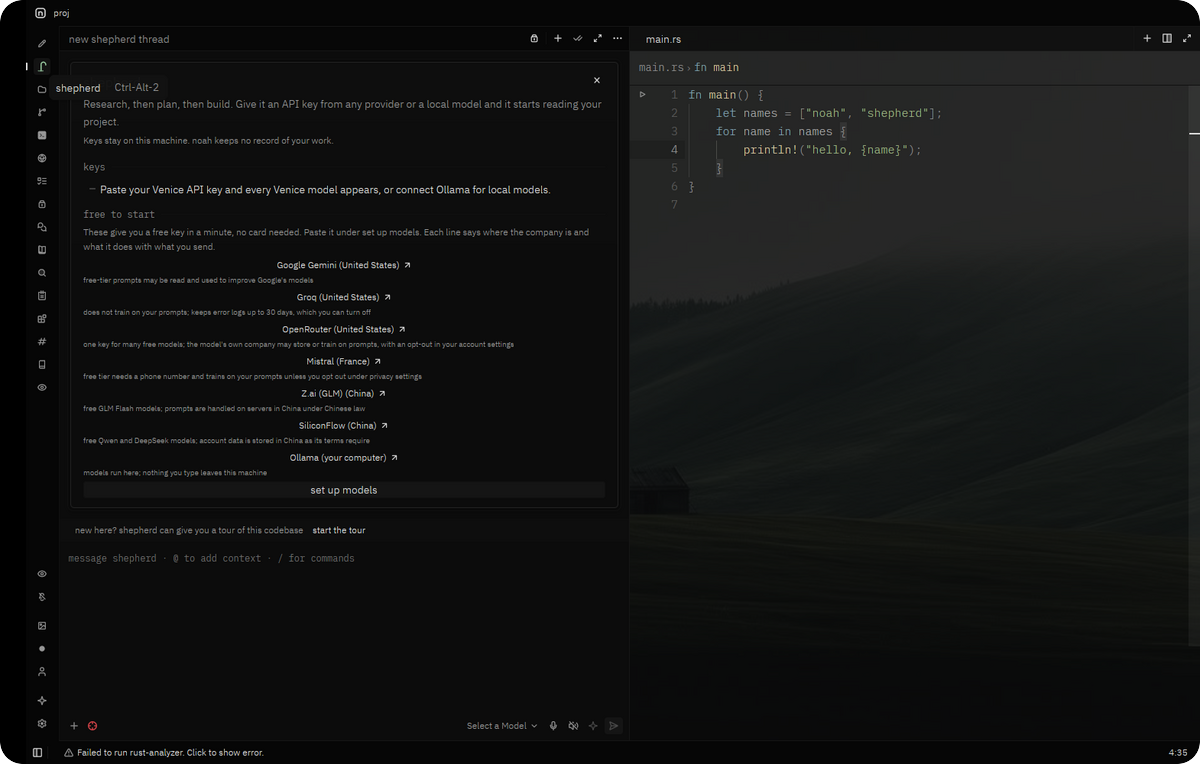
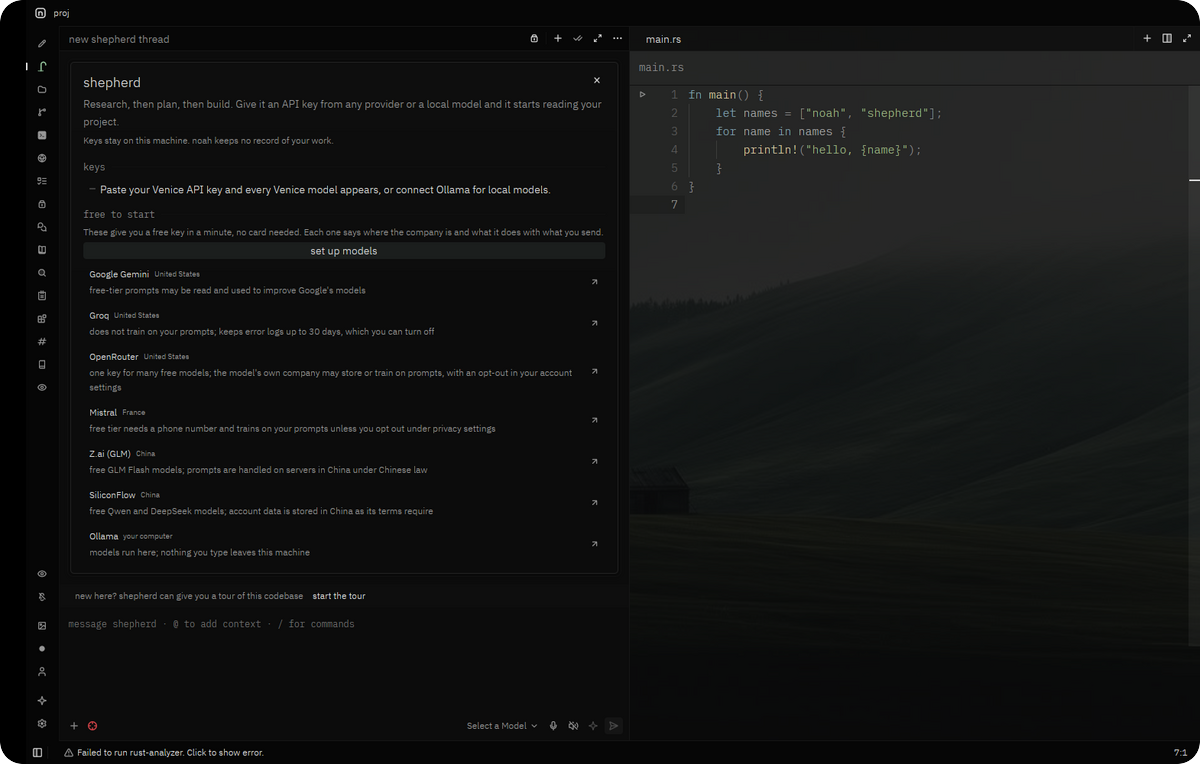
Animate panels in and rebuild shepherd's setup card
- Docked panels fade in and slide 8px from the edge they live on
  (160ms, ease-out), replaying when the panel changes.
- The setup card puts "set up models" first and shows each free
  provider as one left-aligned row: name, country, what it does with
  your data at a readable size, and the whole row opens the sign-up.
- README shepherd screenshot updated.

Claude-Session: https://claude.ai/code/session_01EhGequBV2f2cWf42hYUEcy

diff --git a/crates/ai_onboarding/src/agent_api_keys_onboarding.rs b/crates/ai_onboarding/src/agent_api_keys_onboarding.rs
@@ -1,6 +1,6 @@
 use gpui::{Action, IntoElement, ParentElement, RenderOnce};
 use language_model::{IconOrSvg, LanguageModelRegistry, ZED_CLOUD_PROVIDER_ID};
-use ui::{Divider, List, ListBulletItem, prelude::*};
+use ui::{Divider, List, ListBulletItem, TintColor, prelude::*};
 
 pub struct ApiKeysWithProviders {
     configured_providers: Vec<(IconOrSvg, SharedString)>,
@@ -212,34 +212,58 @@ impl RenderOnce for ApiKeysWithoutProviders {
             )
             .child(
                 Label::new(
-                    "These give you a free key in a minute, no card needed. Paste it under set up models. Each line says where the company is and what it does with what you send.",
+                    "These give you a free key in a minute, no card needed. Each one says where the company is and what it does with what you send.",
                 )
                 .size(LabelSize::Small)
                 .color(Color::Muted),
             )
-            .children(FREE_PROVIDERS.iter().map(|provider| {
-                v_flex()
-                    .child(
-                        Button::new(provider.id, format!("{} ({})", provider.name, provider.country))
-                            .full_width()
-                            .style(ButtonStyle::Subtle)
-                            .label_size(LabelSize::Small)
-                            .end_icon(Icon::new(IconName::ArrowUpRight).size(IconSize::XSmall))
-                            .on_click(move |_, _, cx| cx.open_url(provider.url)),
-                    )
-                    .child(
-                        Label::new(provider.data)
-                            .size(LabelSize::XSmall)
-                            .color(Color::Muted),
-                    )
-            }))
             .child(
                 Button::new("configure-providers", "set up models")
                     .full_width()
-                    .style(ButtonStyle::Outlined)
+                    .style(ButtonStyle::Tinted(TintColor::Accent))
                     .on_click(move |_, window, cx| {
                         window.dispatch_action(zed_actions::agent::OpenSettings.boxed_clone(), cx);
                     }),
             )
+            .child(v_flex().gap_0p5().children(FREE_PROVIDERS.iter().map(|provider| {
+                // One target per provider: the name, where it is and what it
+                // does with your data read as a single choice.
+                h_flex()
+                    .id(provider.id)
+                    .w_full()
+                    .px_2()
+                    .py_1p5()
+                    .gap_2()
+                    .rounded_md()
+                    .cursor_pointer()
+                    .hover(|style| style.bg(cx.theme().colors().element_hover))
+                    .on_click(move |_, _, cx| cx.open_url(provider.url))
+                    .child(
+                        v_flex()
+                            .flex_1()
+                            .min_w_0()
+                            .gap_0p5()
+                            .child(
+                                h_flex()
+                                    .gap_1p5()
+                                    .child(Label::new(provider.name).size(LabelSize::Small))
+                                    .child(
+                                        Label::new(provider.country)
+                                            .size(LabelSize::XSmall)
+                                            .color(Color::Muted),
+                                    ),
+                            )
+                            .child(
+                                Label::new(provider.data)
+                                    .size(LabelSize::Small)
+                                    .color(Color::Muted),
+                            ),
+                    )
+                    .child(
+                        Icon::new(IconName::ArrowUpRight)
+                            .size(IconSize::XSmall)
+                            .color(Color::Muted),
+                    )
+            })))
     }
 }

diff --git a/crates/workspace/src/dock.rs b/crates/workspace/src/dock.rs
@@ -8,10 +8,10 @@ use client::proto;
 use db::kvp::KeyValueStore;
 
 use gpui::{
-    Action, Anchor, AnyView, App, Axis, Context, Entity, EntityId, EventEmitter, FocusHandle,
-    Focusable, IntoElement, KeyContext, MouseButton, MouseDownEvent, MouseUpEvent, ParentElement,
-    Render, SharedString, StyleRefinement, Styled, Subscription, WeakEntity, Window, deferred, div,
-    px,
+    Action, Anchor, AnimationExt as _, AnyView, App, Axis, Context, ElementId, Entity, EntityId,
+    EventEmitter, FocusHandle, Focusable, IntoElement, KeyContext, MouseButton, MouseDownEvent,
+    MouseUpEvent, ParentElement, Render, SharedString, StyleRefinement, Styled, Subscription,
+    WeakEntity, Window, deferred, div, px,
 };
 use serde::{Deserialize, Serialize};
 use settings::{Settings, SettingsStore, TerminalDockPosition};
@@ -1357,6 +1357,7 @@ impl Render for Dock {
                 })
                 .child(
                     div()
+                        .relative()
                         .map(|this| match self.position().axis() {
                             Axis::Horizontal => this.w_full().h_full(),
                             Axis::Vertical => this.h_full().w_full(),
@@ -1366,6 +1367,25 @@ impl Render for Dock {
                                 .panel
                                 .to_any()
                                 .cached(StyleRefinement::default().v_flex().size_full()),
+                        )
+                        // Arrives from the edge it lives on, so where a panel
+                        // went is where it comes back from. Keyed by panel so
+                        // switching panels plays it again; reduce motion skips it.
+                        .with_animation(
+                            ElementId::Name(
+                                format!("dock-arrive-{}", entry.panel.panel_id()).into(),
+                            ),
+                            gpui::Animation::new(std::time::Duration::from_millis(160))
+                                .with_easing(gpui::ease_out_quint()),
+                            move |this, delta| {
+                                let offset = px((1.0 - delta) * 8.0);
+                                let this = this.opacity(delta);
+                                match position {
+                                    DockPosition::Left => this.left(-offset),
+                                    DockPosition::Right => this.left(offset),
+                                    DockPosition::Bottom => this.top(offset),
+                                }
+                            },
                         ),
                 )
                 .when(self.resizable(cx), |this| {
